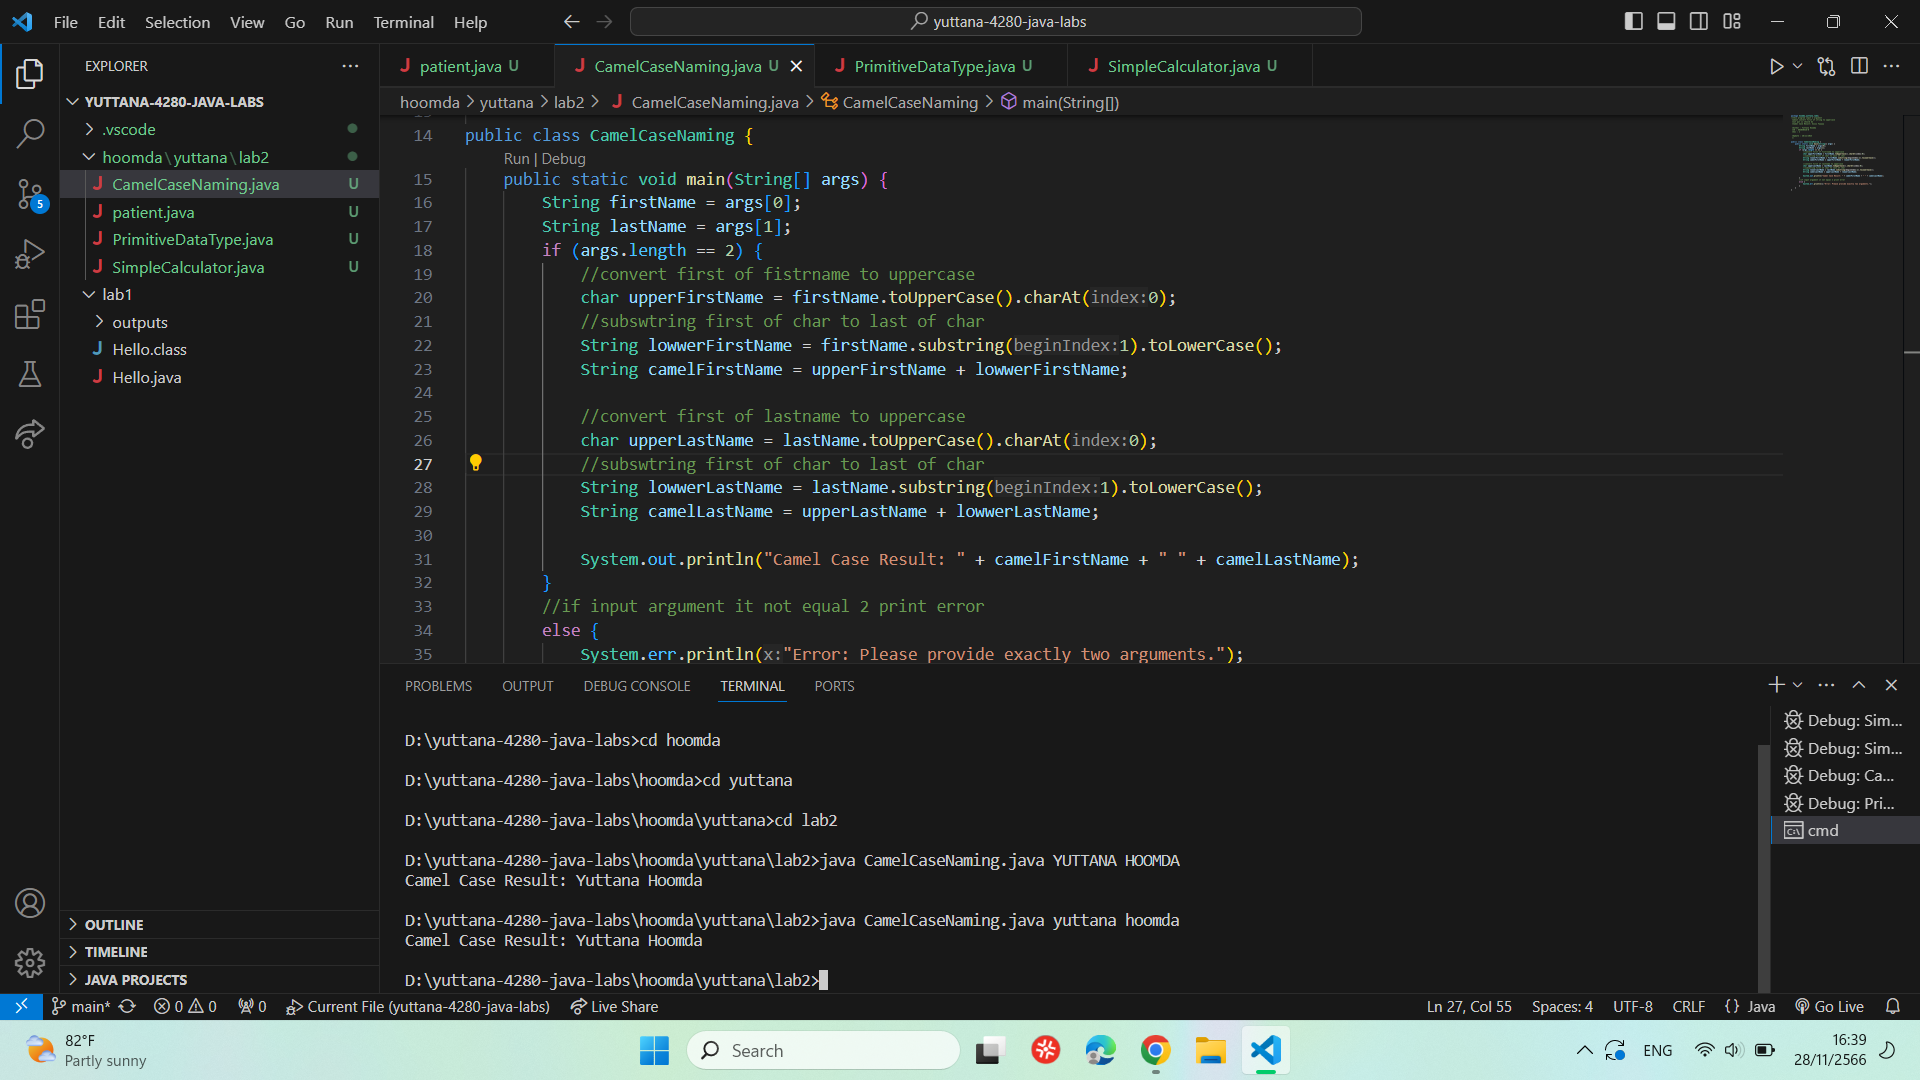
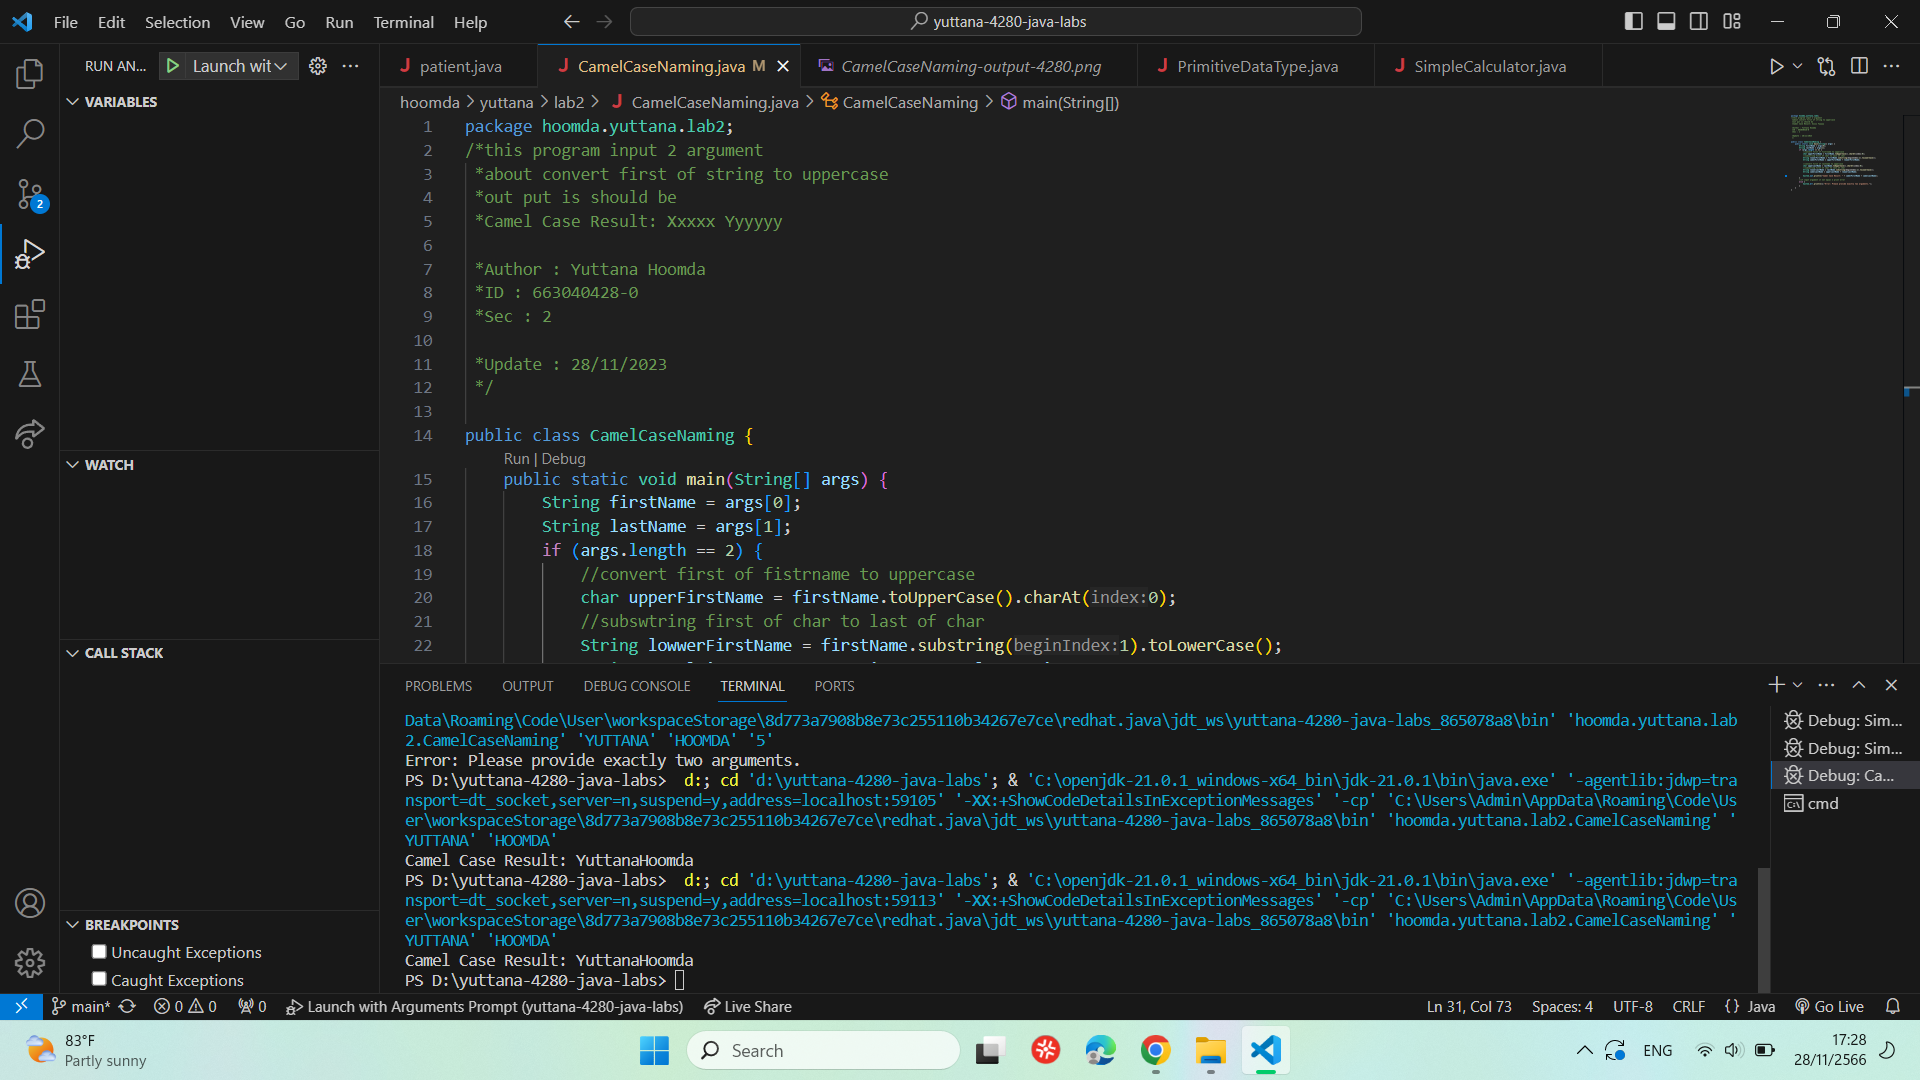
lab2

diff --git a/hoomda/yuttana/lab2/CamelCaseNaming.java b/hoomda/yuttana/lab2/CamelCaseNaming.java
@@ -28,7 +28,7 @@ public class CamelCaseNaming {
             String lowwerLastName = lastName.substring(1).toLowerCase();
             String camelLastName = upperLastName + lowwerLastName;
 
-            System.out.println("Camel Case Result: " + camelFirstName + " " + camelLastName);
+            System.out.println("Camel Case Result: " + camelFirstName + camelLastName);
         }
         //if input argument it not equal 2 print error
         else {
